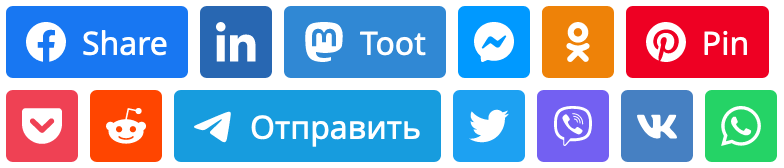
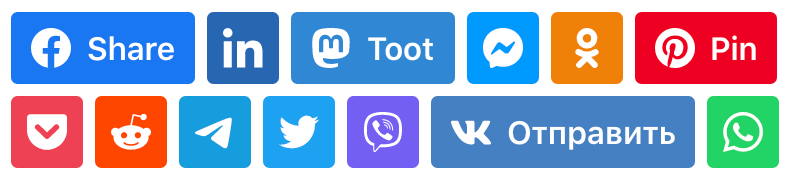
Update README

diff --git a/README.md b/README.md
@@ -1,84 +1,98 @@
-# shareon
+📯 shareon
+==========
 
-<img src="https://raw.githubusercontent.com/NickKaramoff/shareon/main/assets/logo.svg" align="right" alt="shareon logo — the Postal Horn emoji" width="96" height="96">
+> Lightweight, stylish and ethical share buttons for popular social networks
 
-> Lightweight, stylish and ethical share buttons
+<img src="assets/demo@2x.png" height="90" width="395" alt="demo: shareon buttons for various popular social networks">
 
-- **Small.** Dependency-free. CSS+JS bundle is only 6 KB minified and gzipped.
-- **Stylish.** Uses official vector logos and colors with no visual mess.
+- **Small.** Dependency-free. CSS+JS bundle is uner 7 KB, minified and gzipped.
+- **Stylish.** Uses official colours and vector logos with no visual mess.
 - **Ethical.** Embeds no tracking code. JS is required only for the setup.
 
-<img src="https://raw.githubusercontent.com/NickKaramoff/shareon/main/assets/demo@2x.png" height="84" width="392" alt="shareon demo screenshot">
+Observe the live demo at [shareon.js.org](https://shareon.js.org/)!
 
-----
-Observe the live demo here: [shareon.js.org](https://shareon.js.org)
+Install
+-------
 
-## Install
+### Modern browsers
+
+shareon ships as an ES6 module.
+[Most modern browsers](https://caniuse.com/es6-module) support this format.
 
 Include the link to shareon's JS and CSS in your website:
 
 ```html
-<link href="https://cdn.jsdelivr.net/npm/shareon@1/dist/shareon.min.css" rel="stylesheet">
-<script src="https://cdn.jsdelivr.net/npm/shareon@1/dist/shareon.min.js" type="text/javascript"></script>
+<link href="https://cdn.jsdelivr.net/npm/shareon@2/shareon.css" rel="stylesheet">
+<script type="module" src="https://cdn.jsdelivr.net/npm/shareon@2"></script>
 ```
 
-or install it via NPM use it in a JS file that you will bundle:
+### Older browsers
+
+If for some reason you don't want to use the ESM format, you can include the
+Legacy (IIFE) version of the package
+
+```html
+<link href="https://cdn.jsdelivr.net/npm/shareon@2/shareon.css" rel="stylesheet">
+<script src="https://cdn.jsdelivr.net/npm/shareon@2/shareon.legacy.js" type="text/javascript"></script>
+```
+
+### Node.js
+
+If you build a web app using Node.js, you can install shareon as a package:
 
 ```sh
 npm install shareon
-# or
+```
+
+```sh
 yarn add shareon
 ```
 
+Then, import it in your code:
+
 ```js
-const shareon = require('shareon');
-// or
 import shareon from 'shareon';
 ```
 
-## Initialization
+> **💡 Tip!** Modern browsers and some bundlers support importing directly from
+> URL:
+>
+> ```js
+> import shareon from 'https://cdn.jsdelivr.net/npm/shareon@2';
+> ```
+
+CommonJS' `require()` [**is not supported**](https://gist.github.com/sindresorhus/a39789f98801d908bbc7ff3ecc99d99c).
+
+Initialization
+--------------
 
 By default, shareon will initialize every button after page load. It also
 exports the `shareon` function, that will let you repopulate your buttons with
 updated information (for example, if you changed the page title):
 
 ```js
+import shareon from 'shareon';
 // shareon auto-initializes
 
 window.title = "Cool new window title";
 shareon();
 ```
 
-If you want to postpone the initialization, you can import the `noinit`-version
-of the package. You'll need to manually call the `shareon` function when you
-want the buttons to be initialized:
+If you use the IIFE version, `shareon()` is available as a global function:
 
 ```html
-<!-- notice the 'noinit' section of the url for JS -->
-<link href="https://cdn.jsdelivr.net/npm/shareon@1/dist/shareon.min.css" rel="stylesheet">
-<script src="https://cdn.jsdelivr.net/npm/shareon@1/dist/noinit/shareon.min.js" type="text/javascript"></script>
-
-<script type="text/javascript">
-  // do something important
-  shareon();
+<script>
+  window.title = "Cool new window title";
+  window.shareon();
 </script>
 ```
 
-or, if you're using Node:
+Usage
+-----
 
-```js
-const shareon = require('shareon/dist/noinit/shareon');
-// or
-import shareon from 'shareon/dist/noinit/shareon';
-
-// do something important
-shareon();
-```
-
-## Usage
-
-> shareon was heavily inspired by [Likely](https://ilyabirman.net/projects/likely/),
-  and has a backwards-compatible API (excluding themes and sizes).
+> shareon was heavily inspired by
+> [Likely](https://ilyabirman.net/projects/likely/),
+> and has backwards-compatible networks' names
 
 Create a container with class `shareon` and populate it with elements, whose
 classes match the names of social networks:
@@ -88,39 +102,45 @@ classes match the names of social networks:
     <a class="facebook"></a>
     <a class="linkedin"></a>
     <a class="mastodon"></a>
-    <!-- FB App ID is required for the Messenger button to function -->
+
+    <!-- App ID is required for the Messenger button to function -->
     <a class="messenger" data-fb-app-id="0123456789012345"></a>
+
     <a class="odnoklassniki"></a>
     <a class="pinterest"></a>
     <a class="pocket"></a>
-    <button class="reddit"></button>
-    <button class="telegram"></button>
-    <button class="twitter"></button>
-    <button class="viber"></button>
-    <button class="vkontakte"></button>
-    <button class="whatsapp"></button>
+    <a class="reddit"></a>
+    <a class="telegram"></a>
+    <a class="twitter"></a>
+    <a class="viber"></a>
+    <a class="vkontakte"></a>
+    <a class="whatsapp"></a>
 </div>
 ```
 
-If you use `<a>`, the buttons will get a `href`-attribute to them. In other cases
-they will get a listener on `click` event, so you can use `<button>`s if you wish.
+> The elements don't have to be `<a>`s — if you use a different tag (for example,
+`<button>`), shareon will use event listeners instead of `href`. Note that this
+is not the intended use case and is slower.
 
 By default, the URL and the title of the page will be used in sharing dialogs.
 To change this, you can use the `data-url` and `data-title` attributes. Use them
 on the whole container or on the specific buttons:
 
 ```html
-<div class="shareon" data-url="https://example.com">
-    <a class="facebook" data-title="Custom Facebook title"></a>
-    <a class="twitter" data-title="Custom Twitter title"></a>
+<div class="shareon" data-url="https://custom.url.com">
+    <a class="facebook" data-title="Custom title for Facebook"></a>
+    <a class="twitter" data-title="Custom title for Twitter"></a>
 </div>
 ```
 
-Apart from the URL and title, some networks support extra parameters:
+Apart from the URL and title, some social networks support extra parameters:
 
-- you **have to** add `data-fb-app-id` to the FB Messenger button to make sharing even possible
-- add `data-media` to an Odnoklassniki, Pinterest, or VK button to customize the pinned picture
-- add `data-text` to a WhatsApp, Mastodon, Telegram, or Viber button to add custom message text
+- you **MUST** add `data-fb-app-id` to the FB Messenger button to make
+  sharing possible
+- add `data-media` to an Odnoklassniki, Pinterest, or VK buttons to customize
+  the pinned picture
+- add `data-text` to a WhatsApp, Mastodon, Telegram, or Viber button to add
+  custom message text
 - add `data-via` to a Twitter or Mastodon button to mention a user
 
 Here are all the custom parameters in their glory:
@@ -137,13 +157,26 @@ Here are all the custom parameters in their glory:
 </div>
 ```
 
-## License
+Licence
+-------
 
-BSD-3-Clause © [Nikita Karamov](https://karamoff.dev)
+[BSD-3-Clause](https://spdx.org/licenses/BSD-3-Clause.html) © 2020, Nikita Karamov
 
-shareon logo is the [Postal Horn emoji](https://github.com/googlefonts/noto-emoji/blob/v2020-09-16-unicode13_1/svg/emoji_u1f4ef.svg) from [Noto Emoji](https://github.com/googlefonts/noto-emoji/tree/v2020-09-16-unicode13_1), which is licensed under the [Apache License v2.0](https://github.com/googlefonts/noto-emoji/blob/v2020-09-16-unicode13_1/LICENSE).
+shareon logo is the
+[Postal Horn emoji](https://github.com/googlefonts/noto-emoji/blob/v2020-09-16-unicode13_1/svg/emoji_u1f4ef.svg)
+from
+[Noto Emoji](https://github.com/googlefonts/noto-emoji/tree/v2020-09-16-unicode13_1),
+which is licensed under the
+[Apache License v2.0](https://github.com/googlefonts/noto-emoji/blob/v2020-09-16-unicode13_1/LICENSE).
 
 Includes a modified version of the
 [Mastodon logo](https://commons.wikimedia.org/wiki/File:Mastodon_Logotype_%28Simple%29.svg),
 which is licensed under the
 [APGLv3 license](https://www.gnu.org/licenses/agpl.html) or later.
+
+----
+
+The source code is being hosted
+on [GitHub](https://github.com/NickKaramoff/shareon) with mirrors
+on [GitLab](https://gitlab.com/NickKaramoff/shareon)
+and [Codeberg](https://codeberg.org/NickKaramoff/shareon).
